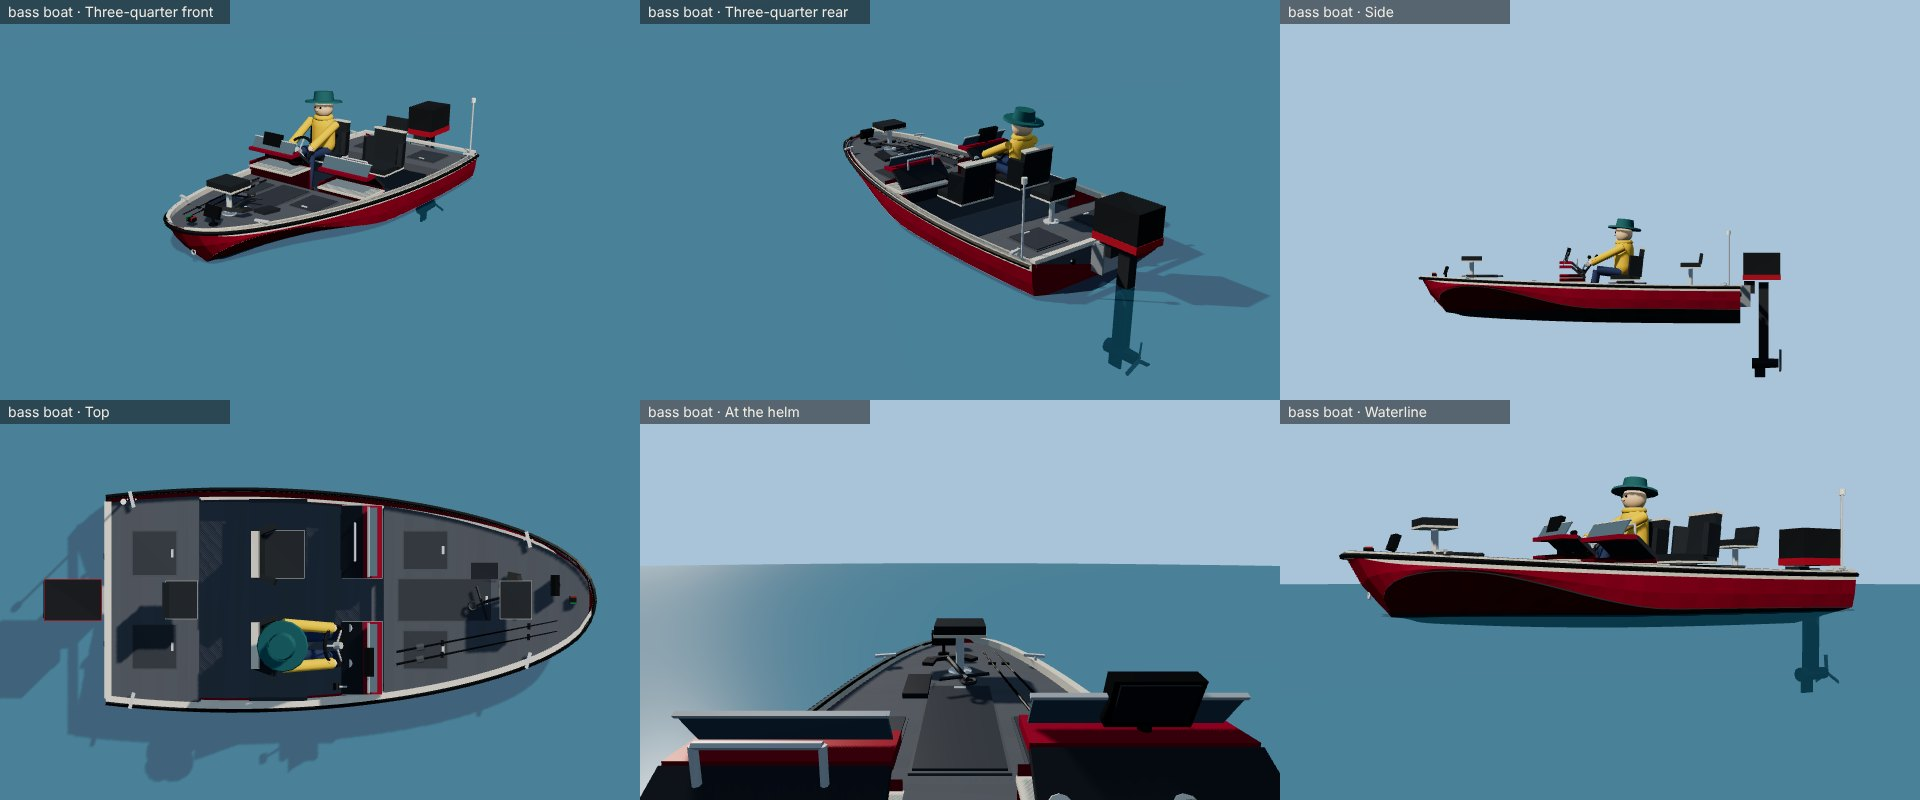
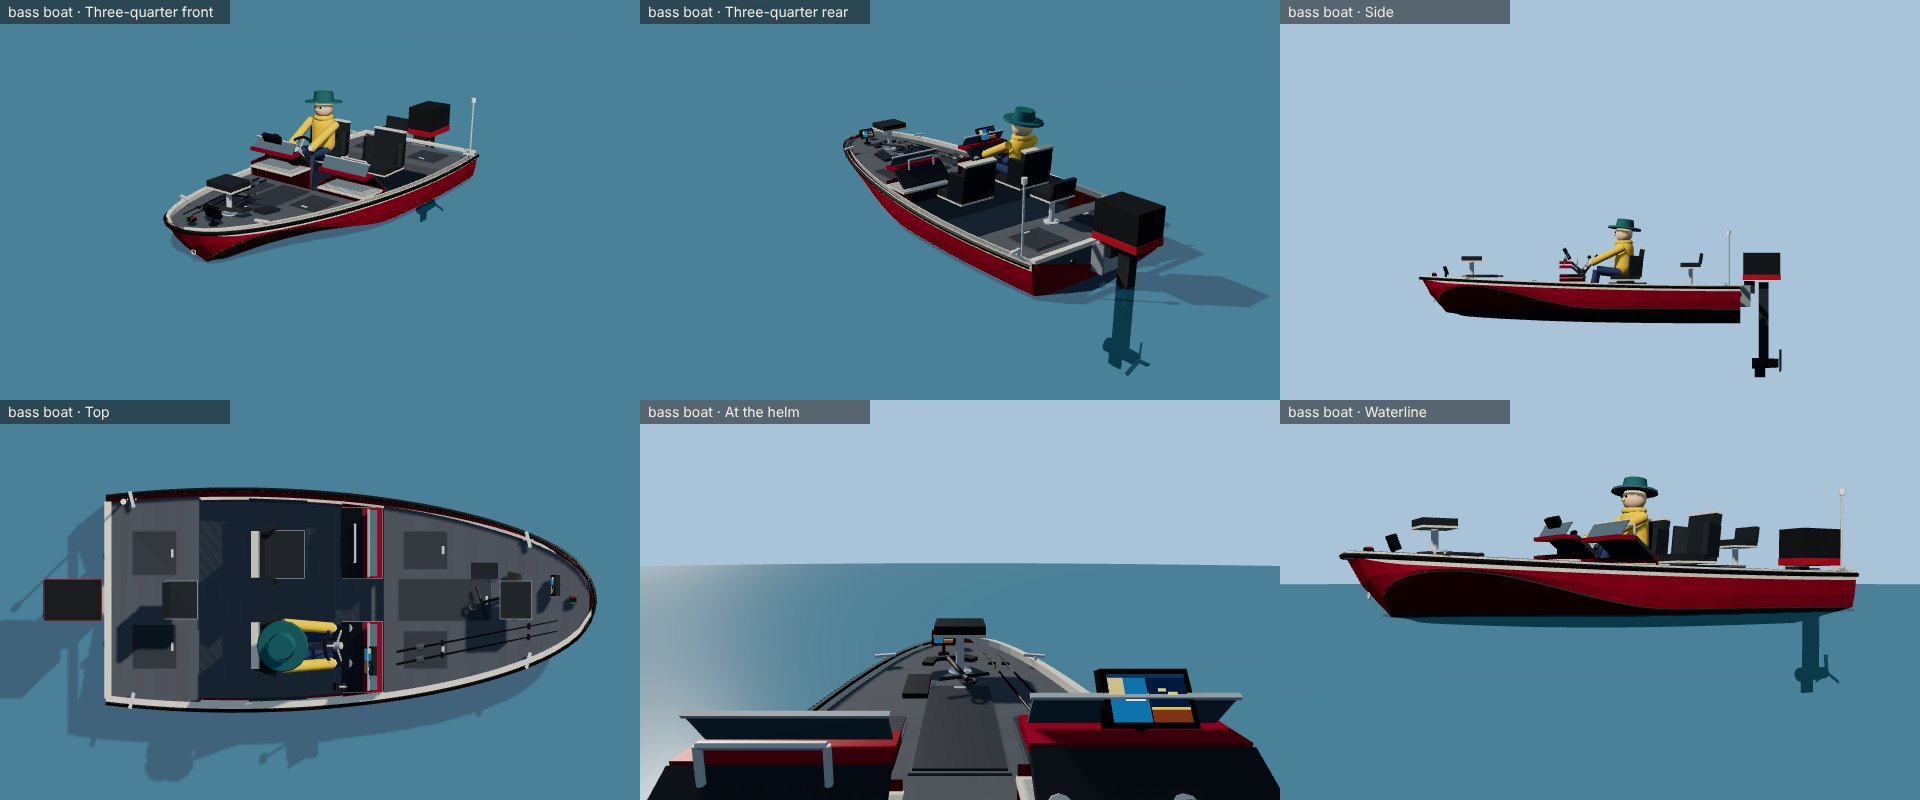
Fleet A1: her graphs lit and facing you, a bimini clear of your view
Seen in the game: both graphs leaned away from whoever uses them and
showed black, and a bimini's forward posts stood in your view at the
wheel (she's steered from a seat to starboard now). The graphs now lean
back to face their user and show a lit chart and sonar (one small unlit
mesh); on a built hull the bimini's frame stands beside and behind the
helm, its canopy reaching forward over the consoles. A test for each,
both checked to fail on the old code. The after pictures, in-game
before/after (docs/fleet/after/bass-game.jpg), performance and the
improvement log's entry.

Claude-Session: https://claude.ai/code/session_01BGtkwPGGxMNWzNUrW4iRKf

diff --git a/src/boat.js b/src/boat.js
@@ -1063,8 +1063,8 @@ export class Boat {
     this.body.add(hullMesh);
     this.body.add(waterLid(rows, H.draft));
 
-    const carpet = [], fit = [];
-    if (F.kind === 'bass') this.fitBass(carpet, fit);
+    const carpet = [], fit = [], glow = [];
+    if (F.kind === 'bass') this.fitBass(carpet, fit, glow);
     const carpetMesh = new THREE.Mesh(mergeParts(carpet), new THREE.MeshStandardMaterial({ vertexColors: true, roughness: 0.92, metalness: 0 }));
     carpetMesh.receiveShadow = true;
     carpetMesh.castShadow = true;
@@ -1073,6 +1073,8 @@ export class Boat {
     fitMesh.castShadow = true;
     fitMesh.receiveShadow = true;
     this.body.add(carpetMesh, fitMesh);
+    // (Her graphs' displays, lit from within: they read by day and glow after dark.)
+    if (glow.length) this.body.add((this.screens = new THREE.Mesh(mergeParts(glow), new THREE.MeshBasicMaterial({ vertexColors: true }))));
     if (F.wheel && this.wheelAt) this.buildWheel(this.seatX, ...this.wheelAt);
   }
 
@@ -1085,13 +1087,32 @@ export class Boat {
   // a pedestal seat and the stern light; round her the gunwale cap and a black rubbing strake,
   // pop-up cleats, the bow light and bow eye; on the transom a jack plate for the outboard.
   // (Starboard is -x.)
-  fitBass(carpet, fit) {
+  fitBass(carpet, fit, glow) {
     const H = this.hull, F = H.form, L = H.L, V = (x, y, z) => new THREE.Vector3(x, y, z);
     const T = (z) => clamp((z + L / 2) / L, 0, 1), W = (z) => hw(H, T(z)), S = (z) => sheer(H, T(z));
     const y0 = H.floorY, zR = F.rear, zF = F.front, zStern = -L / 2, zBow = L / 2;
     const CARPET = '#575c64', LID = '#464b53', CAP = '#dcd7cc', STEEL = '#c9cdd0', BLACK = '#1d2125', DARK = '#383d44', GLASS = '#5d7381', VINYL = '#33393f';
     const box = (to, sx, sy, sz, x, y, z, color, rx = 0, ry = 0, rz = 0, jitter = 0.03) => to.push({ geo: new THREE.BoxGeometry(sx, sy, sz), matrix: mat(x, y, z, rx, ry, rz), color, jitter });
     const cyl = (to, r0, r1, h, x, y, z, color, rx = 0, ry = 0, rz = 0, n = 8) => to.push({ geo: new THREE.CylinderGeometry(r0, r1, h, n), matrix: mat(x, y, z, rx, ry, rz), color, jitter: 0.02 });
+    // A graph (a fish finder with a chart): a black case w by h, its face aft towards whoever
+    // uses it, leaning back by lean; on the face a split screen, the chart to port (sea, a shore,
+    // your track) and the sonar to starboard (the water column, a school, the bottom's bright
+    // return over the seabed), into glow (lit: see buildFormedHull).
+    const graph = (w, h, x, y, z, lean) => {
+      box(fit, w, h, 0.05, x, y, z, BLACK, lean, 0, 0);
+      const m = mat(x, y, z, lean, 0, 0), fz = -0.027, iw = w - 0.035, ih = h - 0.035, half = iw / 2;
+      const px = (u, v, sw, sh, color, dz = 0) => glow.push({ geo: new THREE.BoxGeometry(sw, sh, 0.002).translate(u, v, fz - dz), matrix: m, color, jitter: 0 });
+      // (Starboard is -x, and the face looks aft: the chart, to port, is at +x.)
+      px(half / 2, 0, half - 0.004, ih, '#2b6d9e');
+      px(half * 0.8, ih * 0.22, half * 0.4, ih * 0.5, '#c9b373', 0.001);
+      px(half * 0.35, -ih * 0.05, half * 0.5, 0.006, '#f2f0ea', 0.001);
+      px(-half / 2, 0, half - 0.004, ih, '#0f2c4c');
+      px(-half / 2, -ih * 0.36, half - 0.004, ih * 0.28, '#7a3f22', 0.001);
+      px(-half / 2, -ih * 0.22, half - 0.004, 0.008, '#f0b030', 0.002);
+      px(-half * 0.62, ih * 0.08, 0.03, 0.012, '#f2d24b', 0.001);
+      px(-half * 0.36, ih * 0.16, 0.025, 0.01, '#f2d24b', 0.001);
+      px(0, ih / 2 - 0.006, iw, 0.012, '#24415e', 0.002);
+    };
     // Her half-width inside her skin at z and height y (a V is narrow low down: see formHalf).
     const HF = (z, y) => Math.max(0, formHalf(H, F, T(z), y) - 0.035);
     // A surface across her between z0 and z1, inset from her sides, at height y(z): a deck or a sole.
@@ -1256,9 +1277,9 @@ export class Boat {
     const D = consoleBody(-xOut, -xIn, 0.72), P = consoleBody(xIn, xOut, 0.66);
     // The driver's gauges on the dash, the graph on top, the throttle beside the wheel.
     for (const dx of [-0.17, 0.17]) cyl(fit, 0.04, 0.04, 0.025, H.seatX + dx, 0.79, zc0 + 0.075, '#e9e5dc', -1.0, 0, 0, 12);
-    box(fit, 0.28, 0.18, 0.05, D.cx - 0.04, D.top + 0.13, zc0 + 0.26, BLACK, -0.3, 0, 0);
-    box(fit, 0.24, 0.14, 0.01, D.cx - 0.04, D.top + 0.13, zc0 + 0.232, '#24323c', -0.3, 0, 0, 0.01);
-    cyl(fit, 0.02, 0.025, 0.06, D.cx - 0.04, D.top + 0.03, zc0 + 0.28, BLACK);
+    // (The graph leans back to face your eyes at the wheel.)
+    graph(0.28, 0.18, D.cx - 0.04, D.top + 0.13, zc0 + 0.27, 0.5);
+    cyl(fit, 0.02, 0.025, 0.06, D.cx - 0.04, D.top + 0.03, zc0 + 0.29, BLACK);
     box(fit, 0.07, 0.06, 0.12, -xOut + 0.06, D.top - 0.13, zc0 + 0.06, DARK);
     {
       const a = V(-xOut + 0.06, D.top - 0.1, zc0 + 0.04), b = V(-xOut + 0.06, D.top + 0.08, zc0 - 0.06);
@@ -1288,8 +1309,7 @@ export class Boat {
       const z = 1.98, y = yDeck(z), x = 0.14;
       cyl(fit, 0.05, 0.05, 0.015, x, y + 0.008, z, BLACK, 0, 0, 0, 10);
       cyl(fit, 0.015, 0.015, 0.1, x, y + 0.06, z, BLACK, 0, 0, 0, 6);
-      box(fit, 0.2, 0.13, 0.045, x, y + 0.15, z, BLACK, -0.35, 0, 0);
-      box(fit, 0.17, 0.1, 0.01, x, y + 0.15, z - 0.024, '#24323c', -0.35, 0, 0, 0.01);
+      graph(0.2, 0.13, x, y + 0.15, z, 0.35);
     }
     for (const [x0, x1] of [[-0.62, -0.3], [-0.5, -0.2]]) {
       const a = V(x0, yDeck(zF + 0.12) + 0.03, zF + 0.12), b = V(x1, yDeck(2.0) + 0.02, 2.0);
@@ -2162,10 +2182,13 @@ export class Boat {
       }
     }
     if (has('bimini')) {
-      const t1 = tOf(hz - 0.55), t2 = tOf(hz + 0.75), top = y0 + 1.95;
+      // (Its frame stands beside and behind the helm, out of your view ahead, on a boat you sit
+      // at a console to steer (a built hull), the canopy reaching forward over the console; on
+      // others, posts either side, behind you and ahead.)
+      const t1 = tOf(hz - 0.55), t2 = tOf(hz + (built ? 0.05 : 0.75)), top = y0 + 1.95;
       for (const t of [t1, t2]) for (const sd of [1, -1]) parts.push(strut(V(sd * (hw(H, t) - 0.06), sheer(H, t), zAt(H, t)), V(sd * 0.7 * hw(H, t), top, zAt(H, t)), 0.016, 0.016, '#c9cdd0'));
-      const w = 1.4 * Math.min(hw(H, t1), hw(H, t2)), d = zAt(H, t2) - zAt(H, t1) + 0.2;
-      box(w, 0.05, d, 0, top + 0.02, (zAt(H, t1) + zAt(H, t2)) / 2, '#2f4f63');
+      const w = 1.4 * Math.min(hw(H, t1), hw(H, t2)), z0 = zAt(H, t1) - 0.1, z1 = built ? hz + 0.85 : zAt(H, t2) + 0.1;
+      box(w, 0.05, z1 - z0, 0, top + 0.02, (z0 + z1) / 2, '#2f4f63');
     }
     if (has('anchor')) box(0.16, 0.12, 0.3, 0, sheer(H, 0.97) + 0.07, zAt(H, 0.965), '#2a2c30');
     if (has('lights')) {

diff --git a/src/version.js b/src/version.js
@@ -5,6 +5,6 @@
 // of the game does, so two copies with the same BUILD are the same game.
 export const RELEASE = 93;
 // <build> Written by tools/build-sw.mjs: do not edit by hand.
-export const BUILD = 'a7938c988f07';
+export const BUILD = 'c15bf8cd5364';
 export const BUILT = '2026-11-12';
 // </build>

diff --git a/sw.js b/sw.js
@@ -11,7 +11,7 @@
 // - It never touches saved games: those live in the browser's local storage, not here.
 
 // <precache> Written by tools/build-sw.mjs: do not edit by hand.
-const VERSION = 'a7938c988f07';
+const VERSION = 'c15bf8cd5364';
 const FILES = [
   './index.html',
   './style.css',

diff --git a/docs/IMPROVEMENTS.md b/docs/IMPROVEMENTS.md
@@ -571,3 +571,16 @@ Ranked by player impact, then risk and effort. ✅ done, ⏳ in progress.
 | After | Baselines (software rendering; the simulation's ms is CPU work, frame rates aren't a real machine's): the harbour on foot 11.8 ms a frame (worst 1% 20.5), 341 draw calls, 1.29 M triangles; the RIB flat out in a lively sea 12.7 ms, 148 calls; the bass boat flat out 14.1 ms, 118 calls. The bass boat alone: 26 meshes, 3,546 triangles (the RIB 71 and 21,118) |
 | Validation | The studio checked against the game: boats posed by their own update (your arms on the tiller: before that the arms lay at their unposed size, read as a yellow block under every hull); framing fitted to each boat's bounds (the sailing boat's mast) |
 | Remaining risks | Studio pictures are software-rendered; the in-game checks for each rebuilt boat are in its own pull request. Frame rates here aren't a real machine's: the same tools run on one (see `tools/perf.mjs`) |
+
+### Fleet A1: the bass boat rebuilt as a modern bass boat
+
+| Field | |
+| --- | --- |
+| System | `src/boat.js`: a drawn hull (`HULLS.bass.form`, `formRows`, `formHalf`, `buildFormedHull`) and her fit-out (`fitBass`); you sat at her wheel (`seatX`); her Marine Works fittings placed for a built hull (`setFits`); crew on her decks (`src/world/visitors.js`); `?classic=bass` (the `CLASSIC` table) for the old drawing; the studio's `--compare` and `--classic` (`tools/boatshots.mjs`) |
+| Previous issue | Rated 2/3/1/2/1 against the RIB, console and sailing boat (`docs/FLEET-AUDIT.md`): the round-bilged dinghy hull every small boat shares, a carpet, two white boxes on poles, and you steering by a tiller from the stern. Nothing said *bass boat* |
+| Change | Drawn over her unchanged physics envelope: a hard-chined planing V with a pad and a running strake, the chine 3 to 7 cm above the water aft rising to a fine raked bow; metal-flake red, a cream band under a black rubbing strake, a chine accent, dark bottom paint at her floating draft. Flush carpeted casting decks fore and aft (rod locker, storage, livewell and battery hatches, a pedestal seat on each), a cockpit that follows her V, a seat box with two bucket seats, the driver's console to starboard (wheel, gauges, a graph, smoked windscreen, throttle) and the passenger's to port; a second graph, the trolling motor's pedal and two rods strapped down forward; pop-up cleats, bow and stern lights, a bow eye; the outboard on a jack plate with no tiller. You sit at the wheel and steer it, your hands on it; crew stand on her decks; her Marine Works electronics, livewell and batteries are built in, and a bimini's frame stands beside and behind the helm, clear of your view ahead. Her graphs show a lit chart and sonar, facing whoever uses them |
+| Player benefit | The bass boat you buy looks like one, from the quay, under way and from her helm; everything you did with her works as before |
+| Before | `docs/fleet/before/bass*.jpg`; 26 meshes, 3,546 triangles. Flat out in open water (software rendering): 14.1 ms a frame (worst 1% 22.6), 118 draw calls, 486 k triangles |
+| After | `docs/fleet/after/bass*.jpg` (day, evening, overcast; `-compare` before over after), `bass-game.jpg` (in the game, old left, new right: at rest, flat out, first person, the trolling motor, the Marine Works). 29 meshes, 6,946 triangles, 15 materials (the art direction allows a small boat 40 and 12,000). Flat out: 9.7 to 10.9 ms a frame over two runs (worst 1% 18.6 to 19.1), 125 draw calls, 491 k triangles. The simulation's ms moved within run-to-run noise (the unchanged RIB scenario read 12.7 then 14.7 ms); the cost is 7 draw calls and about 4,600 triangles with shadows. The harbour: 348 calls (341), 1.29 M triangles |
+| Validation | `tests/bassboat.test.mjs` (6): the hull model identical to one built without the drawing; no fit-out vertex outside her skin; your hands on the wheel, no tiller, the jack plate; repaint and restripe reach every painted vertex; her decks where `deckY` says; within budget; graphs facing their user, lit; no bimini post ahead of your eyes (both last two checked to fail on the old code). In the game, old against new: top speed 16.29 kn both; the wheel turns with your hands on it; eyes at the helm, rod at the seat; the trolling motor stows and deploys; no page errors. Full suite 788/788 |
+| Remaining risks | The shared outboard's cowling is still a box (A5, the whole fleet's). Her graphs are pictures, not the RIB's live dashboard: a bass dashboard is a follow-up. Studio and game pictures are software-rendered; a real GPU's frame rate is not claimed. `?classic=bass` stays until she's accepted |

diff --git a/docs/FLEET-AUDIT.md b/docs/FLEET-AUDIT.md
@@ -66,7 +66,7 @@ Scored against the three references (5: as good as the best of them; 1: placehol
 | Centre console | 4 | 4 | 4 | 4 | 4 | Reference |
 | Sailing boat | 4 | 5 | 4 | 5 | 4 | Reference |
 | Bass boat (before A1) | 2 | 3 | 1 | 2 | 1 | Rebuild first |
-| Bass boat (after A1) | 4 | 4 | 4 | 4 | 4 | Rebuilt: `docs/fleet/after/bass*.jpg` |
+| Bass boat (after A1) | 4 | 4 | 4 | 4 | 4 | Rebuilt: `docs/fleet/after/bass*.jpg`, in the game `bass-game.jpg` |
 | Cabin boat | 2 | 2 | 2 | 3 | 2 | Rebuild |
 | Sport-fishing yacht | 3 | 3 | 3 | 3 | 3 | Rebuild the hull and deckhouse, keep her layout |
 | Motor skiff | 3 | 3 | 3 | 3 | 2 | Refine |
